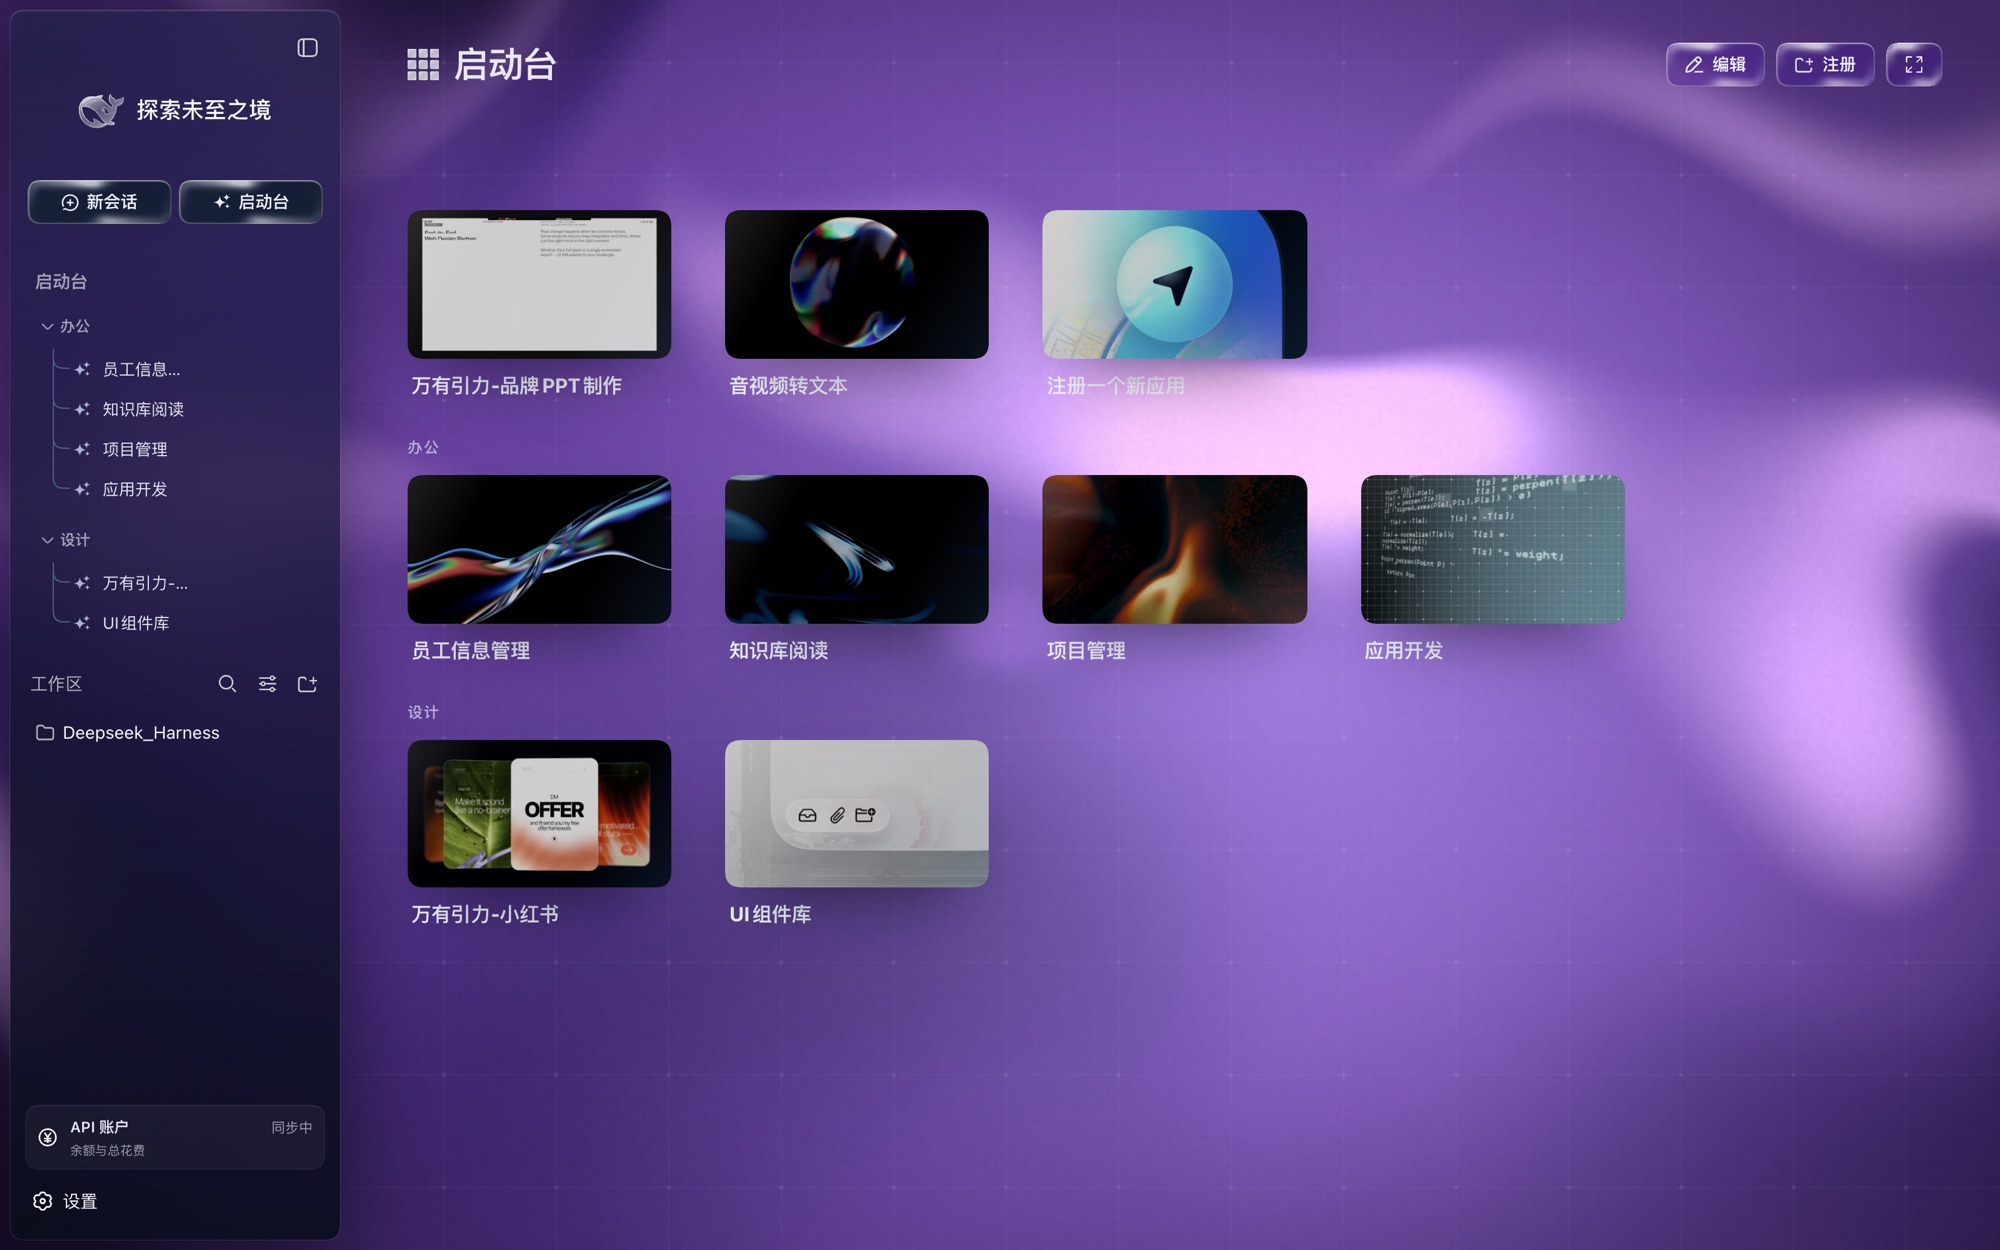
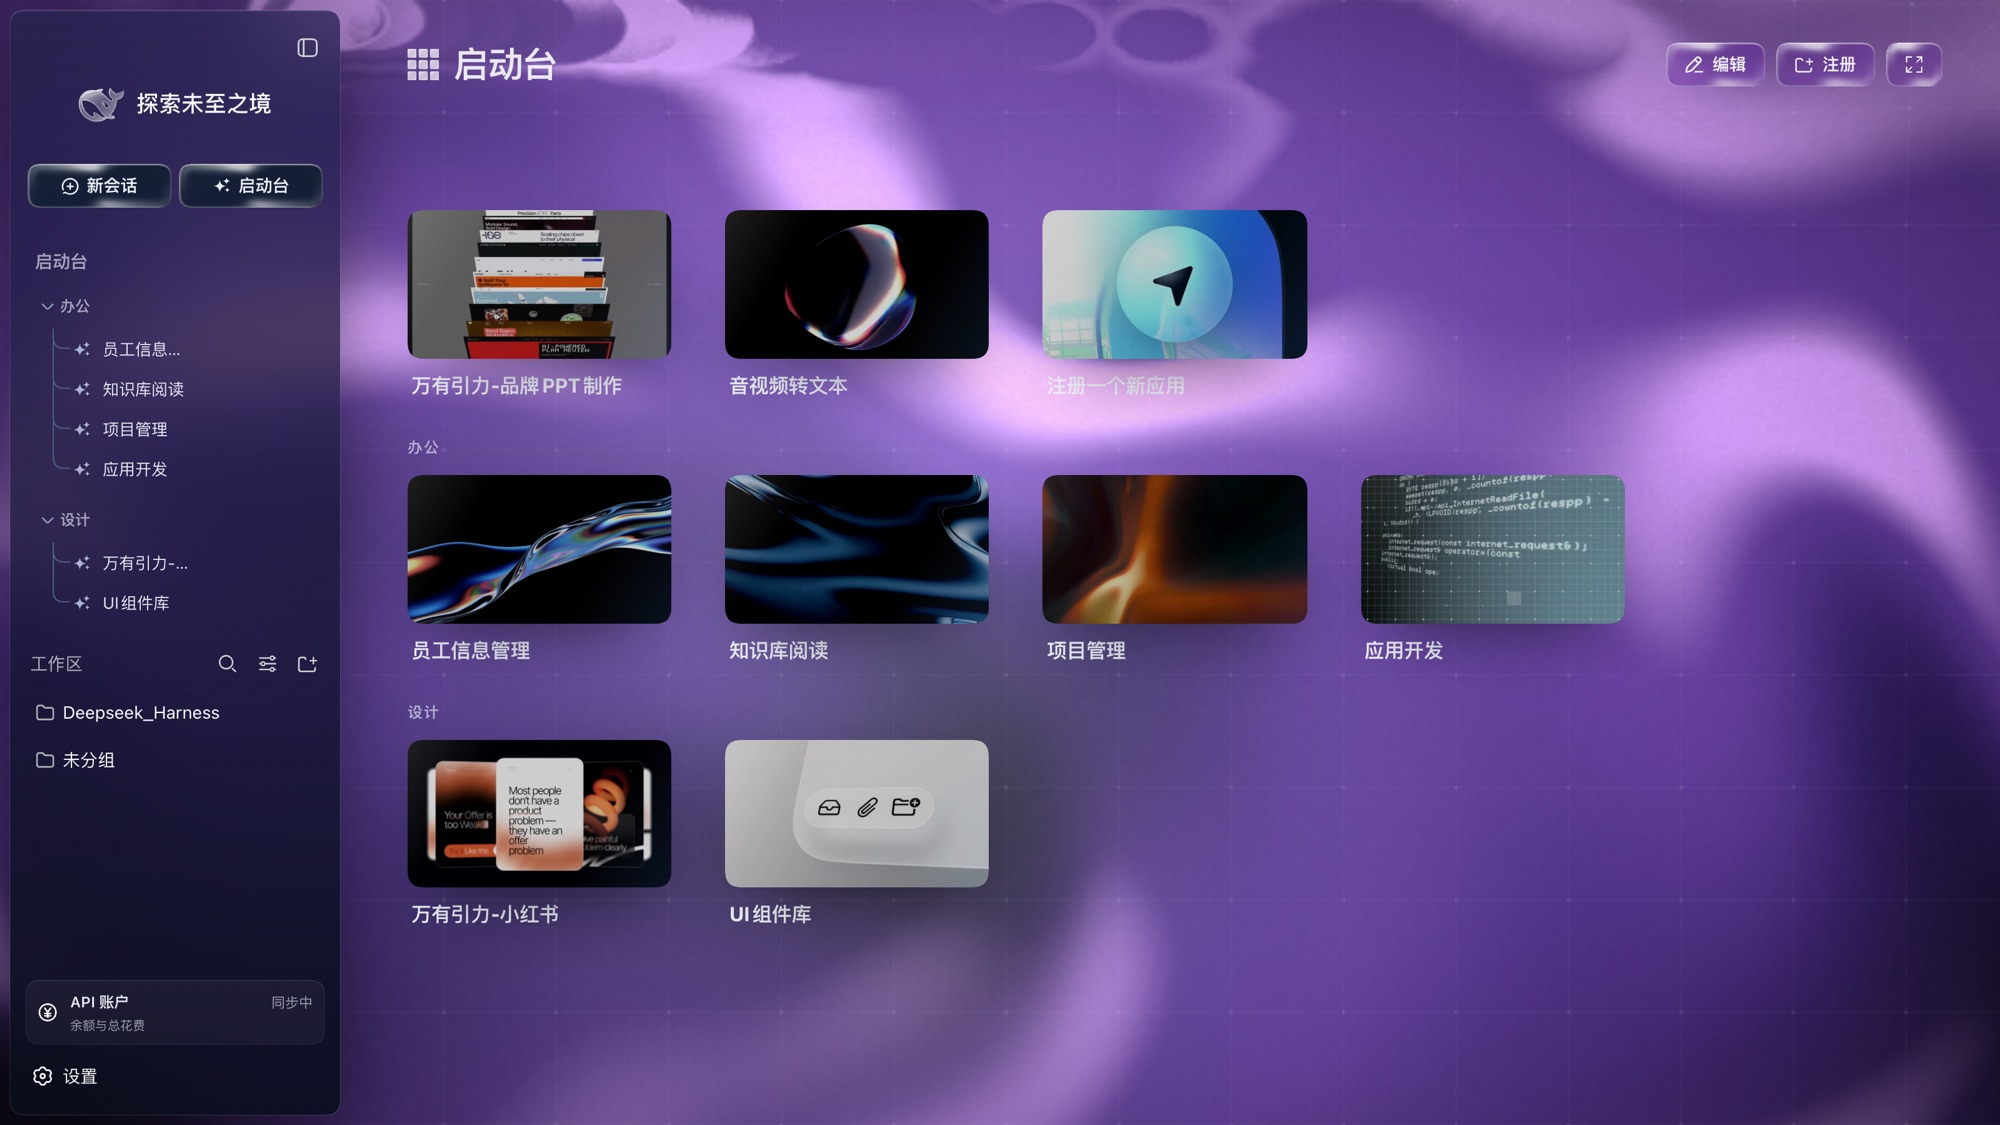
Let the interface lead the page instead of hiding behind the chrome
The hero read as apologetic: a 30px headline, a 912px frame parked high with
236px of dead field under it, and nine new wallpapers indistinguishable at
84x53 thumbnails.

The frame is height-bound — its width follows from whatever height the chrome
leaves — so the room had to come out of the chrome, not the empty field:

- headline 30px -> 50px, tighter tracking, a longer shadow, and only one line
  to sit on;
- 26px more air above it, and the whole stack pushed 22px down;
- thumbnails 84x53 -> 76x43 and every gap tightened by 2px.

Then the frame itself: 960x574 at 1600x900, up from 912x570, and 1280x754 at
1920x1080, up from 1160x725.

The gallery is re-shot at 1600x900 so the frame can be 16:9. That is where the
width comes from: the frame's plate now measures exactly the 16:9 it was shot
at, and `cover` has nothing left to crop. The old book-keeping gave the frame
the image's height as its own — aspect ratio over the full box, bar included —
which silently cut 6% off the top and bottom of every frame.

Two capture races surfaced while re-shooting, and both are now asserted rather
than hoped for. A session window reopens from `dsh.sessions.current`, so one
frame in nine came back with the right column covering the launcher: eight
collapsed, the ninth open. And the sidebar's 工作区 section gains an 未分组
group once the host's session list lands, which made the four early fluid
frames show one workspace and the five nature frames two. `normalizeView()`
[…]

diff --git a/index.html b/index.html
@@ -21,7 +21,11 @@
        the height left over after the header, the rail and the caption. The
        reservation is measured, not guessed: header 69 + title and lede 94 +
        frame margin 18 + caption 37 + rail 63 + section padding 34. */
-    --shot: min(1160px, 84vw, max(520px, calc((100vh - 330px) * 1.6)));
+    /* The frame is shot at 16:9; the reserve below is the chrome around it
+       (bar + air + headline + sub + frame margin + caption + rail + padding),
+       measured at 1600x900 — the rail has to stay above the fold, it is the
+       only wallpaper switcher under 1180px wide. */
+    --shot: min(1400px, 88vw, max(520px, calc((100vh - 360px) * 1.778)));
   }
 
   * { box-sizing: border-box; }
@@ -105,7 +109,7 @@
     display: flex;
     align-items: center;
     gap: 16px;
-    padding: 18px clamp(18px, 4vw, 46px);
+    padding: 14px clamp(18px, 4vw, 46px);
   }
 
   .brand { display: flex; align-items: baseline; gap: 10px; font-weight: 650; letter-spacing: .01em; }
@@ -140,19 +144,20 @@
 
   /* ── Hero: the frame, and the field it sits in ────────────────────────── */
 
-  .hero { padding: 4px clamp(18px, 4vw, 46px) 30px; text-align: center; }
+  .hero { padding: 30px clamp(18px, 4vw, 46px) 14px; text-align: center; }
 
   .hero h1 {
-    margin: 6px auto 8px;
-    font-size: clamp(21px, 2.5vw, 30px);
-    font-weight: 620;
-    letter-spacing: -.01em;
-    text-shadow: 0 2px 24px rgba(4, 7, 13, .6);
+    margin: 0 auto 10px;
+    font-size: clamp(30px, 3.2vw, 50px);
+    font-weight: 640;
+    line-height: 1.05;
+    letter-spacing: -.024em;
+    text-shadow: 0 2px 30px rgba(4, 7, 13, .68);
   }
   .hero .sub {
     margin: 0 auto;
-    max-width: 62ch;
-    font-size: clamp(13px, 1.15vw, 14.5px);
+    max-width: 74ch;
+    font-size: clamp(13px, 1.15vw, 15px);
     color: var(--dim);
     text-shadow: 0 1px 14px rgba(4, 7, 13, .7);
   }
@@ -161,8 +166,11 @@
   .frame {
     position: relative;
     width: var(--shot);
-    margin: 18px auto 0;
-    aspect-ratio: 16 / 10;
+    /* 34px of chrome plus the 16:9 the gallery is shot at — so `cover` has
+       nothing left to crop, which it silently does under a book-keeping
+       aspect ratio that ignores the bar. */
+    height: calc(var(--shot) * 9 / 16 + 34px);
+    margin: 20px auto 0;
     border-radius: var(--radius);
     border: 1px solid var(--line);
     background: rgba(6, 10, 18, .5);
@@ -222,7 +230,7 @@
     align-items: center;
     justify-content: center;
     gap: 10px;
-    margin: 14px auto 0;
+    margin: 10px auto 0;
     font-size: 13px;
     color: var(--dim);
     flex-wrap: wrap;
@@ -242,7 +250,7 @@
     display: flex;
     justify-content: center;
     gap: 8px;
-    margin: 14px auto 0;
+    margin: 10px auto 0;
     padding: 0 4px;
     max-width: 100%;
     overflow-x: auto;
@@ -252,8 +260,8 @@
 
   .rail button {
     flex: 0 0 auto;
-    width: 84px;
-    height: 53px;
+    width: 76px;
+    height: 43px;
     padding: 0;
     border: 1px solid var(--line);
     border-radius: 9px;
@@ -459,7 +467,7 @@
 <main>
   <section class="hero">
     <h1 data-i18n="hero.h1">A glass shell for DeepSeek Harness</h1>
-    <p class="sub" data-i18n="hero.sub">Foldable sidebars, a launcher with a data island, and nine wallpapers underneath — installable as six packages. The frame below is a real capture of the author's own launcher; the field around it is the same wallpaper, running live.</p>
+    <p class="sub" data-i18n="hero.sub">Foldable sidebars, a launcher with a data island, nine wallpapers — as six packages. The frame is the author's own setup; the field around it is live.</p>
 
     <div class="frame" id="frame">
       <div class="bar">
@@ -699,7 +707,7 @@ const COPY = {
     "nav.readme": "README",
     "nav.install": "Install",
     "hero.h1": "A glass shell for DeepSeek Harness",
-    "hero.sub": "Foldable sidebars, a launcher with a data island, and nine wallpapers underneath — installable as six packages. The frame below is a real capture of the author's own launcher; the field around it is the same wallpaper, running live.",
+    "hero.sub": "Foldable sidebars, a launcher with a data island, nine wallpapers — as six packages. The frame is the author's own setup; the field around it is live.",
     "hero.hint": "← → to switch, or click a frame below",
     "kind.fluid": "procedural fluid · WebGL, drawn locally",
     "kind.video": "nature loop · 720p video, needs internet",
@@ -736,7 +744,7 @@ const COPY = {
     "nav.readme": "说明文档",
     "nav.install": "安装",
     "hero.h1": "deepseek-harness 的三栏玻璃外壳",
-    "hero.sub": "可折叠的侧栏、带数据仪表的启动台，以及底下的九张壁纸 —— 以六个包安装。中间这一帧是作者自己环境的真实截屏；四周是同一张壁纸，实时在跑。",
+    "hero.sub": "可折叠的侧栏、带数据仪表的启动台，以及九张壁纸 —— 以六个包安装。中间这一帧是作者自己环境的真实截屏，四周是同一张壁纸，实时在跑。",
     "hero.hint": "← → 切换，或点下面的缩略图",
     "kind.fluid": "程序化流体 · 页面内 WebGL 绘制",
     "kind.video": "动态自然风光 · 720p 视频，需要联网",
